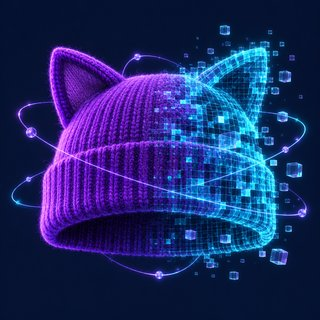
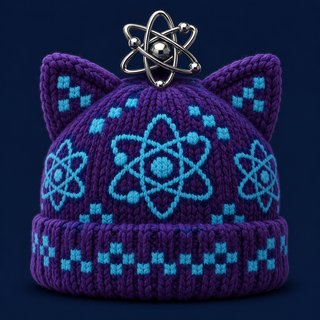
Gorritos Cuántico y Cósmico: fotos de lana sólida, sin parpadeo

diff --git a/lib/ui/hat_celebration.dart b/lib/ui/hat_celebration.dart
@@ -225,31 +225,25 @@ class _HatCelebrationViewState extends State<HatCelebrationView>
           style: TextStyle(fontSize: s, shadows: const [
             Shadow(color: AppTheme.accent2, blurRadius: 40),
           ]))
-      : Opacity(
-          opacity: widget.tier == 6
-              ? 0.55 + 0.45 * math.sin(_spin.value * 90).abs()
-              : 1,
-          child: Container(
-            decoration: BoxDecoration(
-              borderRadius: BorderRadius.circular(s * 0.16),
-              boxShadow: [
-                BoxShadow(
-                    color: _glow[widget.tier % _glow.length],
-                    blurRadius: s * 0.3,
-                    spreadRadius: s * 0.04),
-              ],
-            ),
-            child: ClipRRect(
-              borderRadius: BorderRadius.circular(s * 0.16),
-              child: Image.asset('assets/badges/hat_${widget.tier}.jpg',
-                  width: s, height: s, fit: BoxFit.cover),
-            ),
+      : Container(
+          decoration: BoxDecoration(
+            borderRadius: BorderRadius.circular(s * 0.16),
+            boxShadow: [
+              BoxShadow(
+                  color: _glow[widget.tier % _glow.length],
+                  blurRadius: s * 0.3,
+                  spreadRadius: s * 0.04),
+            ],
+          ),
+          child: ClipRRect(
+            borderRadius: BorderRadius.circular(s * 0.16),
+            child: Image.asset('assets/badges/hat_${widget.tier}.jpg',
+                width: s, height: s, fit: BoxFit.cover),
           ),
         );
 
   /// Per-tier effect: flies for the ugly caps, 4K tags for HD, silver
   /// stars, water drops, orbiting atoms (quantum), falling planets (cosmic).
-  /// The quantum cap also flickers in and out.
   Widget _extra(int i, double land, double hatSize, Size size) {
     const marks = ['', '🪰', '4K', '💎', '💧', '🪰', '⚛', '🪐'];
     final t = widget.tier;
